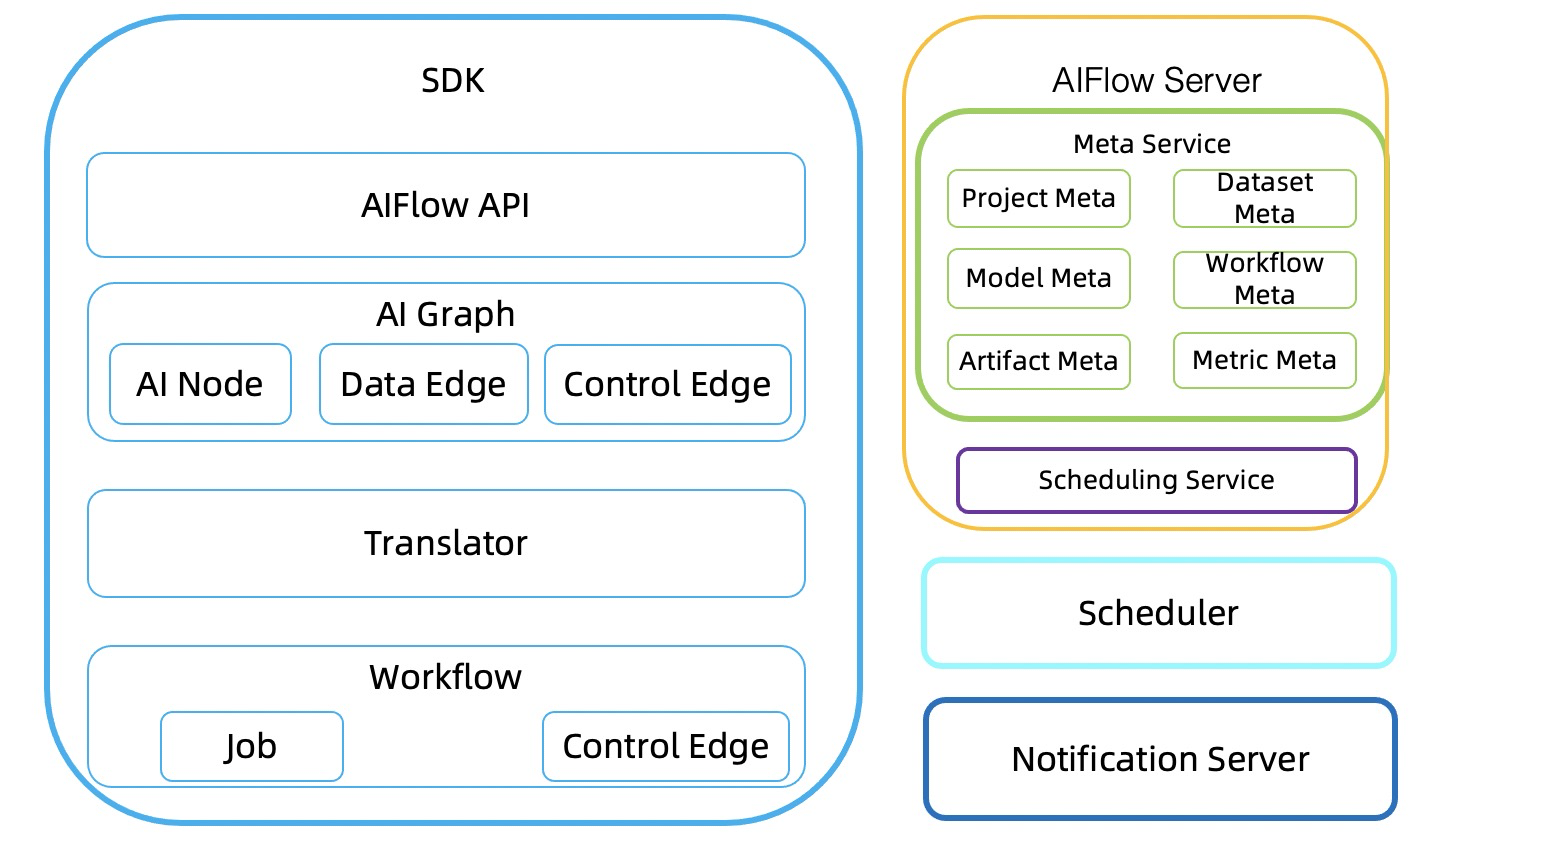
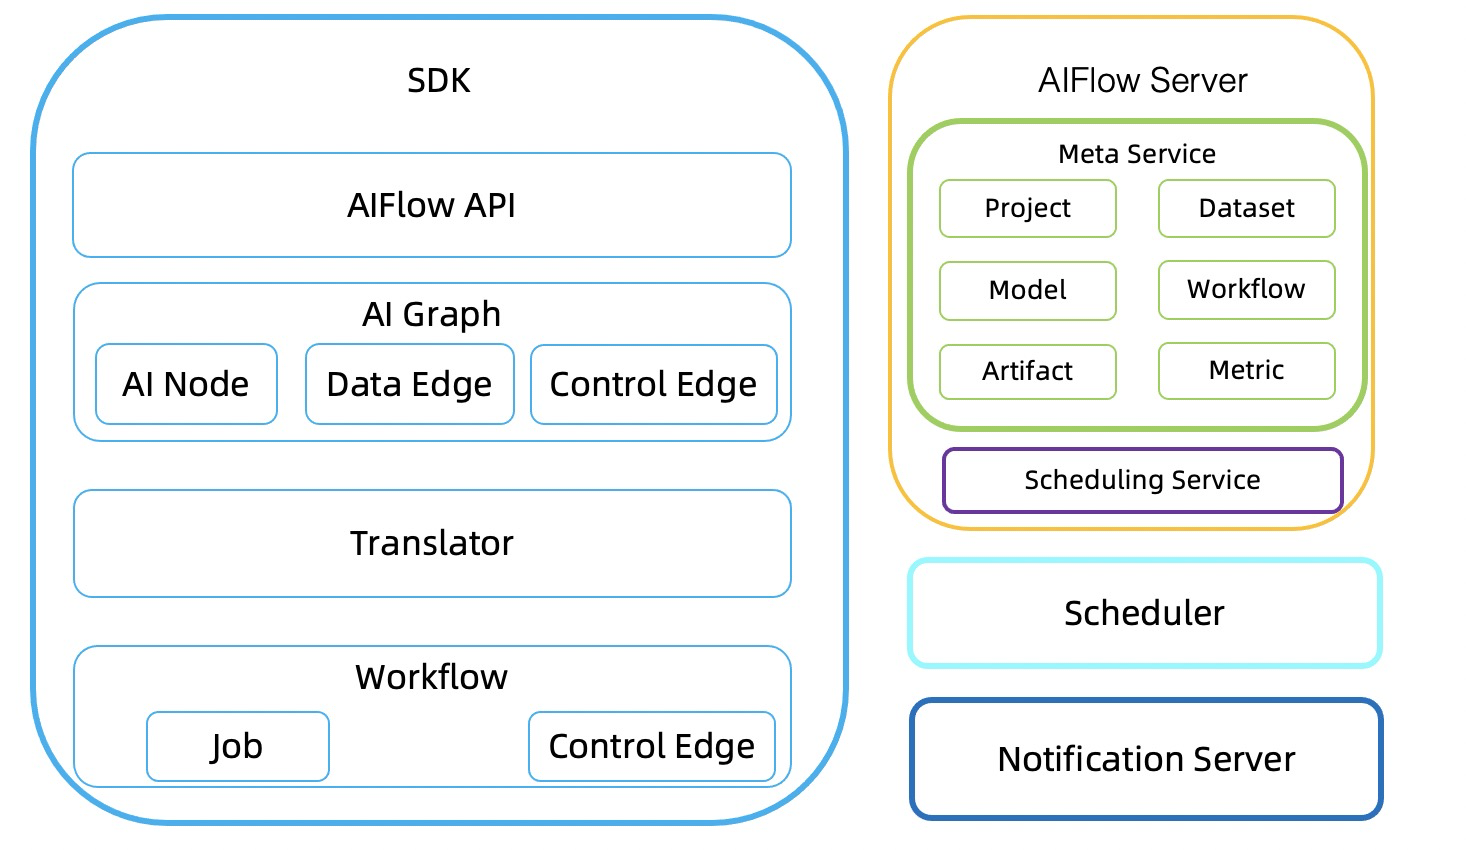
[AIFlow][architecture overview.md] Update architecture.png.

Changed region(s): [[0.0, 0.0, 0.9516, 0.9788], [0.6753, 0.7035, 0.8288, 0.7341], [0.2763, 0.0612, 0.3377, 0.1224]]

diff --git a/docs/content/architecture/overview.md b/docs/content/architecture/overview.md
@@ -48,7 +48,7 @@ AIFlow consists of three components: SDK, AIFlow Server, Notification Server and
    * __Scheduling Service__: Scheduling Service is responsible for processing requests to submit workflow, 
      run workflow, stop workflow, etc.
 
-3. __Notification Server__: Notification Server provides event listening and notification functions.
+3. __Notification Server__: Notification Server provides notification service which support the event publishing and subscription.
 
 4. __Scheduler__: Scheduler provides the function of executing workflow.
 
